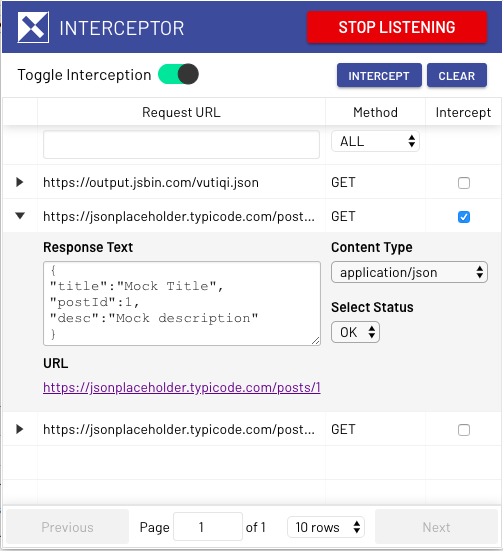
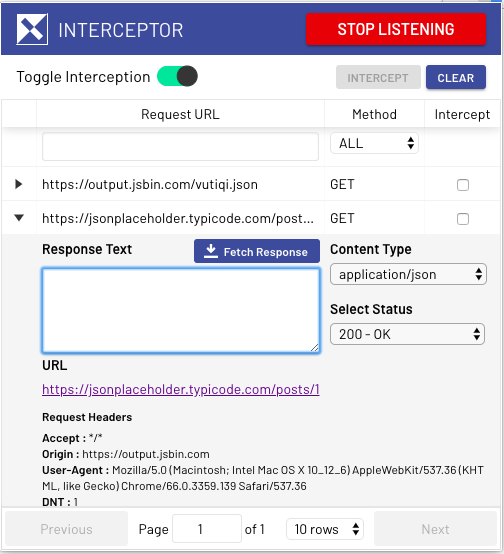
Update Readme - Add fetch response section

diff --git a/README.md b/README.md
@@ -17,6 +17,8 @@ $ npm run watch
 
 ## How to use
 
+### Listening to requests made by the browser
+
 Once you open the extension popup, it shows a UI as seen below. By default, `Intercept Mode` is `ON`.
 
 <img src="images/interceptor_ui.png" alt="Interceptor extension default popup">
@@ -26,11 +28,21 @@ in the popup like this:
 
 <img src="images/interceptor_ui_xhr_list.png" alt="Interceptor extension popup showing a list of AJAX requests">
 
-You can click the small arrow beside the URL and specify a response to mock, when the same request is encountered next:
+Request headers for listened requests are listed below the response form as shown in the screenshot.
 
-<img src="images/interceptor_textfields.png" alt="Specify mock responses using Interceptor as shown">
+<img src="images/interceptor_textfields.png" alt="A screenshot of Listened requests with request headers">
 
-You can specify the [Content-Type header][content-type] field and HTTP response [status code][status-code] through the dropdown available.
+#### Response data returned by backend server
+
+Many a times, before defining you mock response text, you would want to look at the response data returned by the server when the request is made. On clicking `Fetch Response` button, the `textarea` gets filled with the response data from the real server as shown below. However, You can completely skip this step and move on to typing out mock response text.
+
+<img src="images/interceptor_showresponse.png" alt="Fetching data from backend server">
+
+#### Specifying mock response data
+
+You can click the small arrow beside the URL, which shows a form in which you can specify a response to mock, when the same request is encountered next. You also need to specify the [Content-Type header][content-type] field and [status code][status-code] for the mock response through the dropdown available as shown below.
+
+<img src="images/interceptor_modifyresponse.png" alt="Specify mock responses using Interceptor as shown">
 
 Once the above fields are filled and checkbox is checked, click the `INTERCEPT` button. If the interception is successfull, it shows a success message as below:
 
@@ -40,19 +52,21 @@ You can intercept/mock multiple calls by checking as many checkboxes as you want
 
 <img src="images/intercept_multiple_xhr.png" alt="Success message shown by Interceptor upon sucessful interception">
 
-Henceforth the same AJAX request is requested by the browser, the browser is given a fake/mock response instead of the real one.
+Henceforth the same AJAX request is made by the browser, the browser is given a fake/mock response instead of the real one.
 
-You can also stop listening for `AJAX calls` by clicking the `STOP LISTENING`
+You can also stop listening for `AJAX calls` by clicking the `STOP LISTENING` button. Requests made henceforth won't be listed on UI.
 
 The toggle switch is used to disable `INTERCEPTOR`. If the toggle is switched to `OFF` state, it displays a message saying `Interception Disabled` as below.
 
 <img src="images/interceptor_disabled.png" alt="Message shown by Interceptor on disabling">
 
-In the `disabled` state, the extension won't mock any previously intercepted calls.
-Also, the extension's icon beside the url address bar turns red for that particular tab as in screenshot above.
+In the `disabled` state, the extension won't mock any previously intercepted calls. Instead all `XHR's` are routed to the server.
+The extension's icon beside the url address bar turns red for that particular tab as in screenshot above.
 
 
 To mock the calls again, just toggle the switch to `ON` state, check the requests that are to be mocked and click `INTERCEPT` button.
+
+This [blogpost](https://crypt.codemancers.com/posts/2018-04-24-intro-to-interceptor/) makes things much more clear.
 
 ## TODO
 
